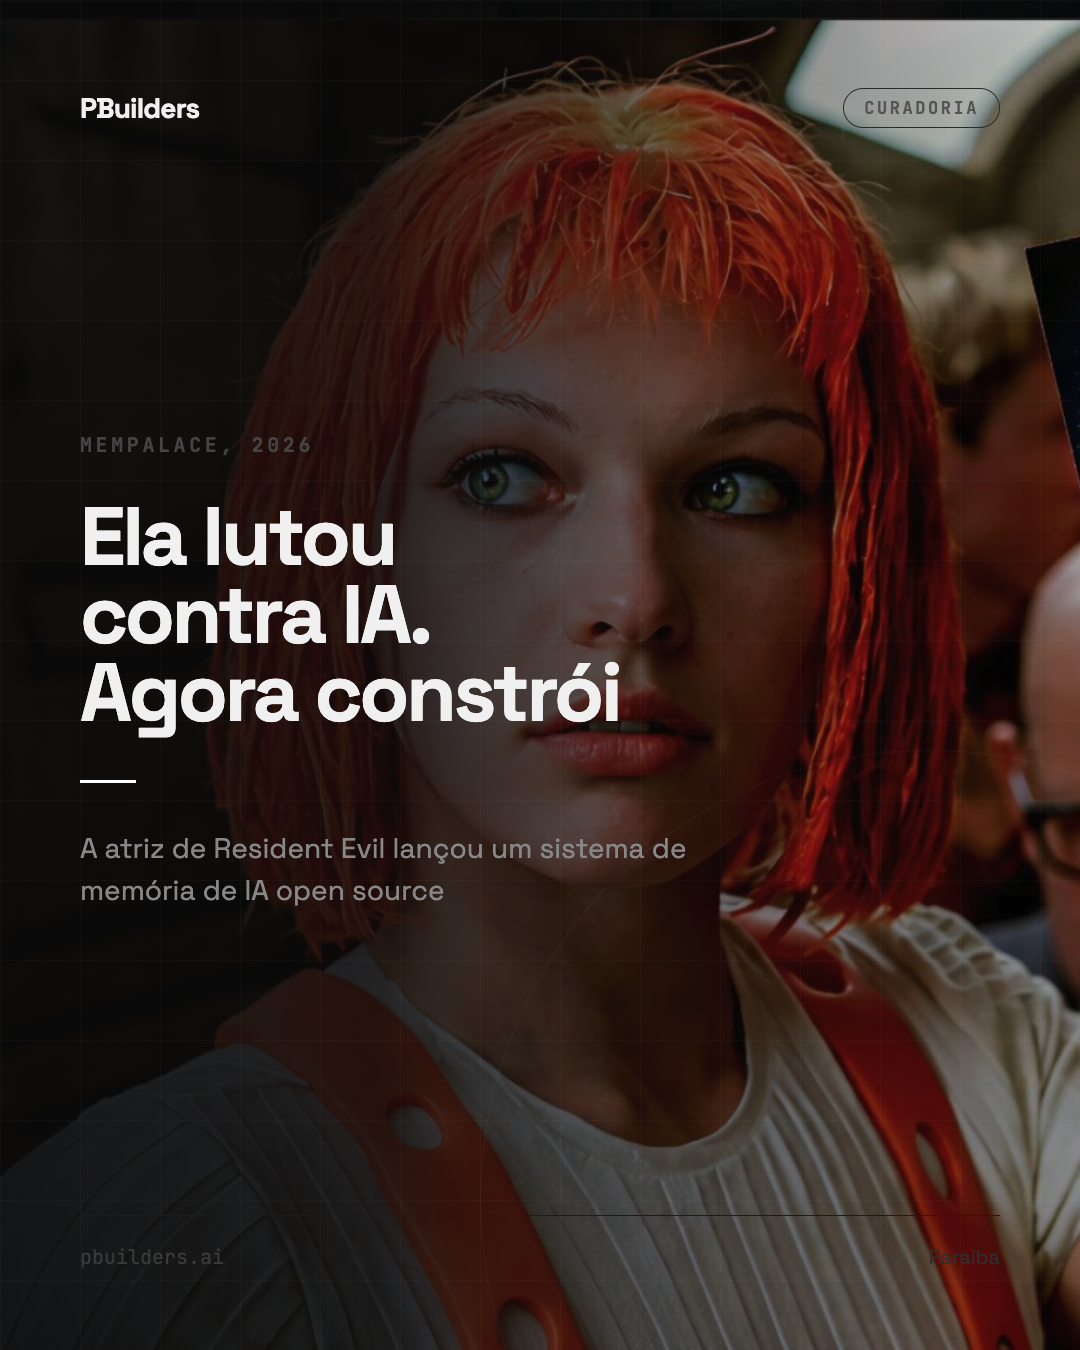
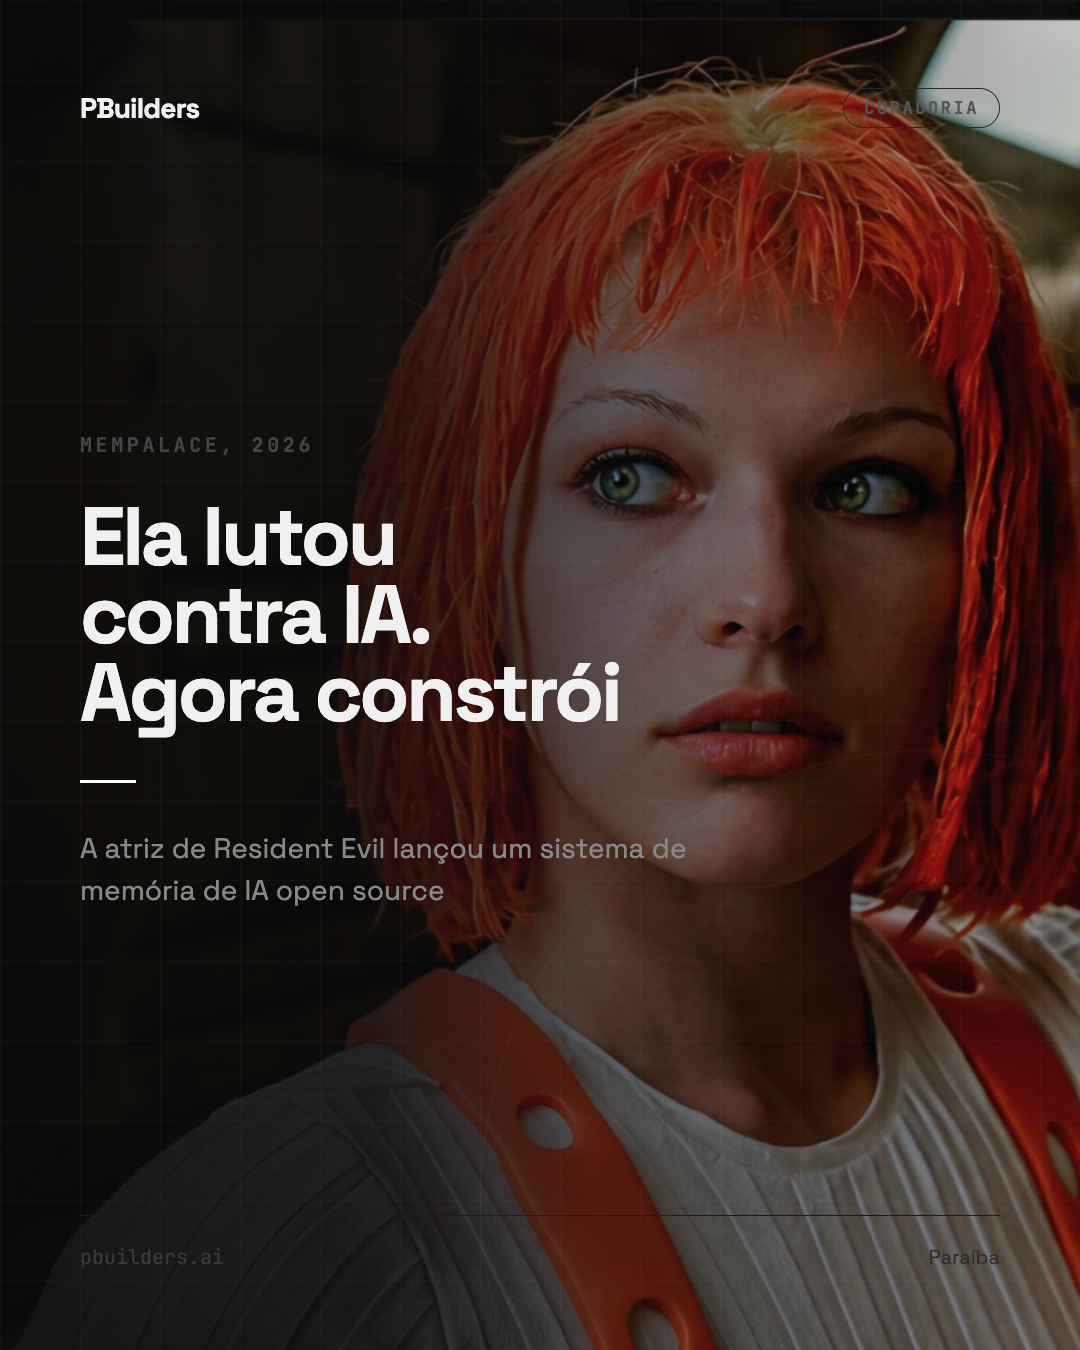
MemPalace: foto mais à esquerda (background-position 5%)

diff --git a/content/2026-04-08-mempalace/whatsapp-cover.html b/content/2026-04-08-mempalace/whatsapp-cover.html
@@ -27,7 +27,7 @@
           rgba(10,10,10,0.80) 30%,
           rgba(10,10,10,0.45) 60%,
           rgba(10,10,10,0.18) 100%),
-        url('milla.png') 20% center/cover no-repeat;
+        url('milla.png') 5% center/cover no-repeat;
       position: relative;
       overflow: hidden;
       display: flex;

diff --git a/content/2026-04-08-mempalace/instagram-carousel.html b/content/2026-04-08-mempalace/instagram-carousel.html
@@ -134,7 +134,7 @@
           rgba(10,10,10,0.85) 35%,
           rgba(10,10,10,0.50) 60%,
           rgba(10,10,10,0.20) 100%),
-        url('milla.png') 20% center/cover no-repeat;
+        url('milla.png') 5% center/cover no-repeat;
     }
 
     #s1 .eyebrow {
